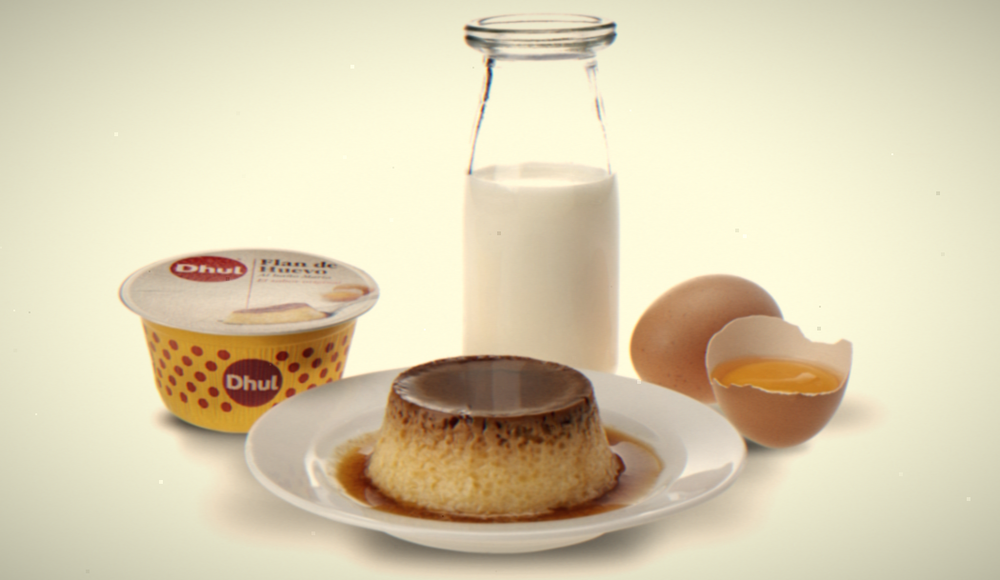
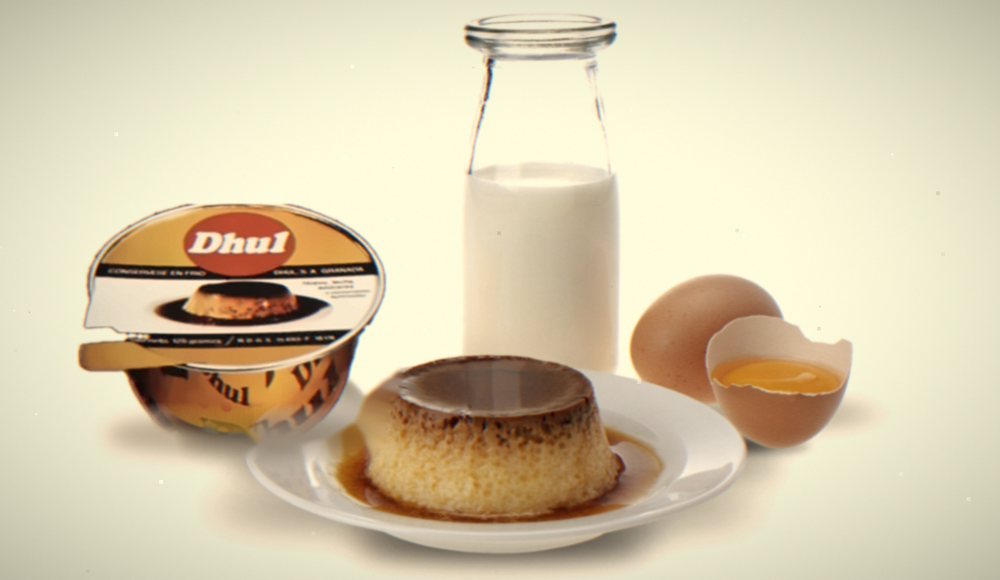
Historia: foto de Dhul con el envase antiguo (flanera de la época) en lugar del vasito actual
Claude-Session: https://claude.ai/code/session_01TfVuY2sTVvMwp4RqzYabW2

Changed region(s): [[0.062, 0.3414, 0.403, 0.8069]]

diff --git a/historia.html b/historia.html
@@ -69,7 +69,7 @@
 </svg>
       <svg class="hi-road" aria-hidden="true" focusable="false"></svg>
       <ol class="hi-stops">
-<li class="hi-stop major" data-veh="pegaso" data-vcap="Pegaso · autoventa"><div class="hi-card"><span class="hi-year">1982</span><h2>El kilómetro cero en Medina del Campo</h2><p>Después de trabajar primero con Fernando Casado Delgado y luego con Manuel Blanco como vendedor en sus respectivas distribuidoras, desde 1982 hasta 1990, Valentín Martín comienza como autónomo y con una furgoneta a repartir en autoventa productos de alimentación por las tiendas de la zona. La primera marca a distribuir fue la emblemática fábrica de postres Flan Dhul.</p><div class="hi-gal" aria-label="Flan Dhul"><figure><img src="assets/historia/dhul-anos-90.png" alt="Flan de huevo Dhul con su vasito, la botella de leche y el huevo, con aspecto de foto de los años 90" loading="lazy"></figure></div></div></li>
+<li class="hi-stop major" data-veh="pegaso" data-vcap="Pegaso · autoventa"><div class="hi-card"><span class="hi-year">1982</span><h2>El kilómetro cero en Medina del Campo</h2><p>Después de trabajar primero con Fernando Casado Delgado y luego con Manuel Blanco como vendedor en sus respectivas distribuidoras, desde 1982 hasta 1990, Valentín Martín comienza como autónomo y con una furgoneta a repartir en autoventa productos de alimentación por las tiendas de la zona. La primera marca a distribuir fue la emblemática fábrica de postres Flan Dhul.</p><div class="hi-gal" aria-label="Flan Dhul"><figure><img src="assets/historia/dhul-anos-90.png" alt="Flan Dhul con su envase antiguo, la botella de leche y el huevo, con aspecto de foto de los años 90" loading="lazy"></figure></div></div></li>
 <li class="hi-stop minor" data-veh="dkv" data-vcap="Mercedes DKV"><div class="hi-card"><span class="hi-year">1986</span><h2>Primeras rutas comarcales</h2><p>Con la leche fresca de RAM, pasteurizada en bolsa, de fecha de caducidad corta, en una Mercedes DKV isotermo.</p><div class="hi-gal hi-fade" tabindex="0" aria-label="Fotos de archivo de 1986"><figure><img src="assets/historia/ram-foto-antigua.png" alt="Foto antigua de la furgoneta de reparto con el rótulo RAM, con gente delante" loading="lazy"></figure><figure><img src="assets/historia/ram-leche-entera.png" alt="Envase de leche entera RAM, seis unidades de 1 litro, de Productos Lácteos Sostenibles" loading="lazy"></figure></div></div></li>
 <li class="hi-stop minor" data-veh="dkv" data-vcap="Mercedes DKV"><div class="hi-card"><span class="hi-year">1989</span><h2>Primer producto de corte hostelero</h2><p>De la mano de Antonio Sanz: Palacio de Bornos Verdejo y nuestro primer cava de Castilla y León.</p><div class="hi-gal hi-slide" aria-label="Palacio de Bornos: etiqueta y botella"><figure><img src="assets/historia/bornos-etiqueta.png" alt="Etiqueta antigua de Palacio de Bornos Verdejo, Rueda" loading="lazy"></figure><figure><img src="assets/historia/bornos-brut.png" alt="Botella de espumoso Palacio de Bornos Brut" loading="lazy"></figure></div></div></li>
 <li class="hi-stop major" data-veh="mb180" data-vcap="MB 180D frigorífico"><div class="hi-card"><span class="hi-year">1993</span><h2>Comenzamos la distribución del Grupo Leche Pascual</h2><p>Incorporamos una marca de referencia en España, con la leche en brik como bandera y un gran portfolio: primeros yogures sin frío, nata y mantequilla Pascual y el emblemático zumo Zumosol. Pasamos de la autoventa a la preventa y modificamos drásticamente la manera de distribuir.</p><div class="hi-gal hi-fade" tabindex="0" aria-label="Galería de archivo"><figure><img src="assets/historia/pascual-antiguo.png" alt="Briks antiguos de leche Pascual: desnatada, semidesnatada y desnatada rosa" loading="lazy"></figure><figure><img src="assets/historia/zumosol-anuncio.png" alt="Anuncio antiguo de Zumosol, «La energía del Sol», con sus briks de zumo" loading="lazy"></figure></div></div></li>
